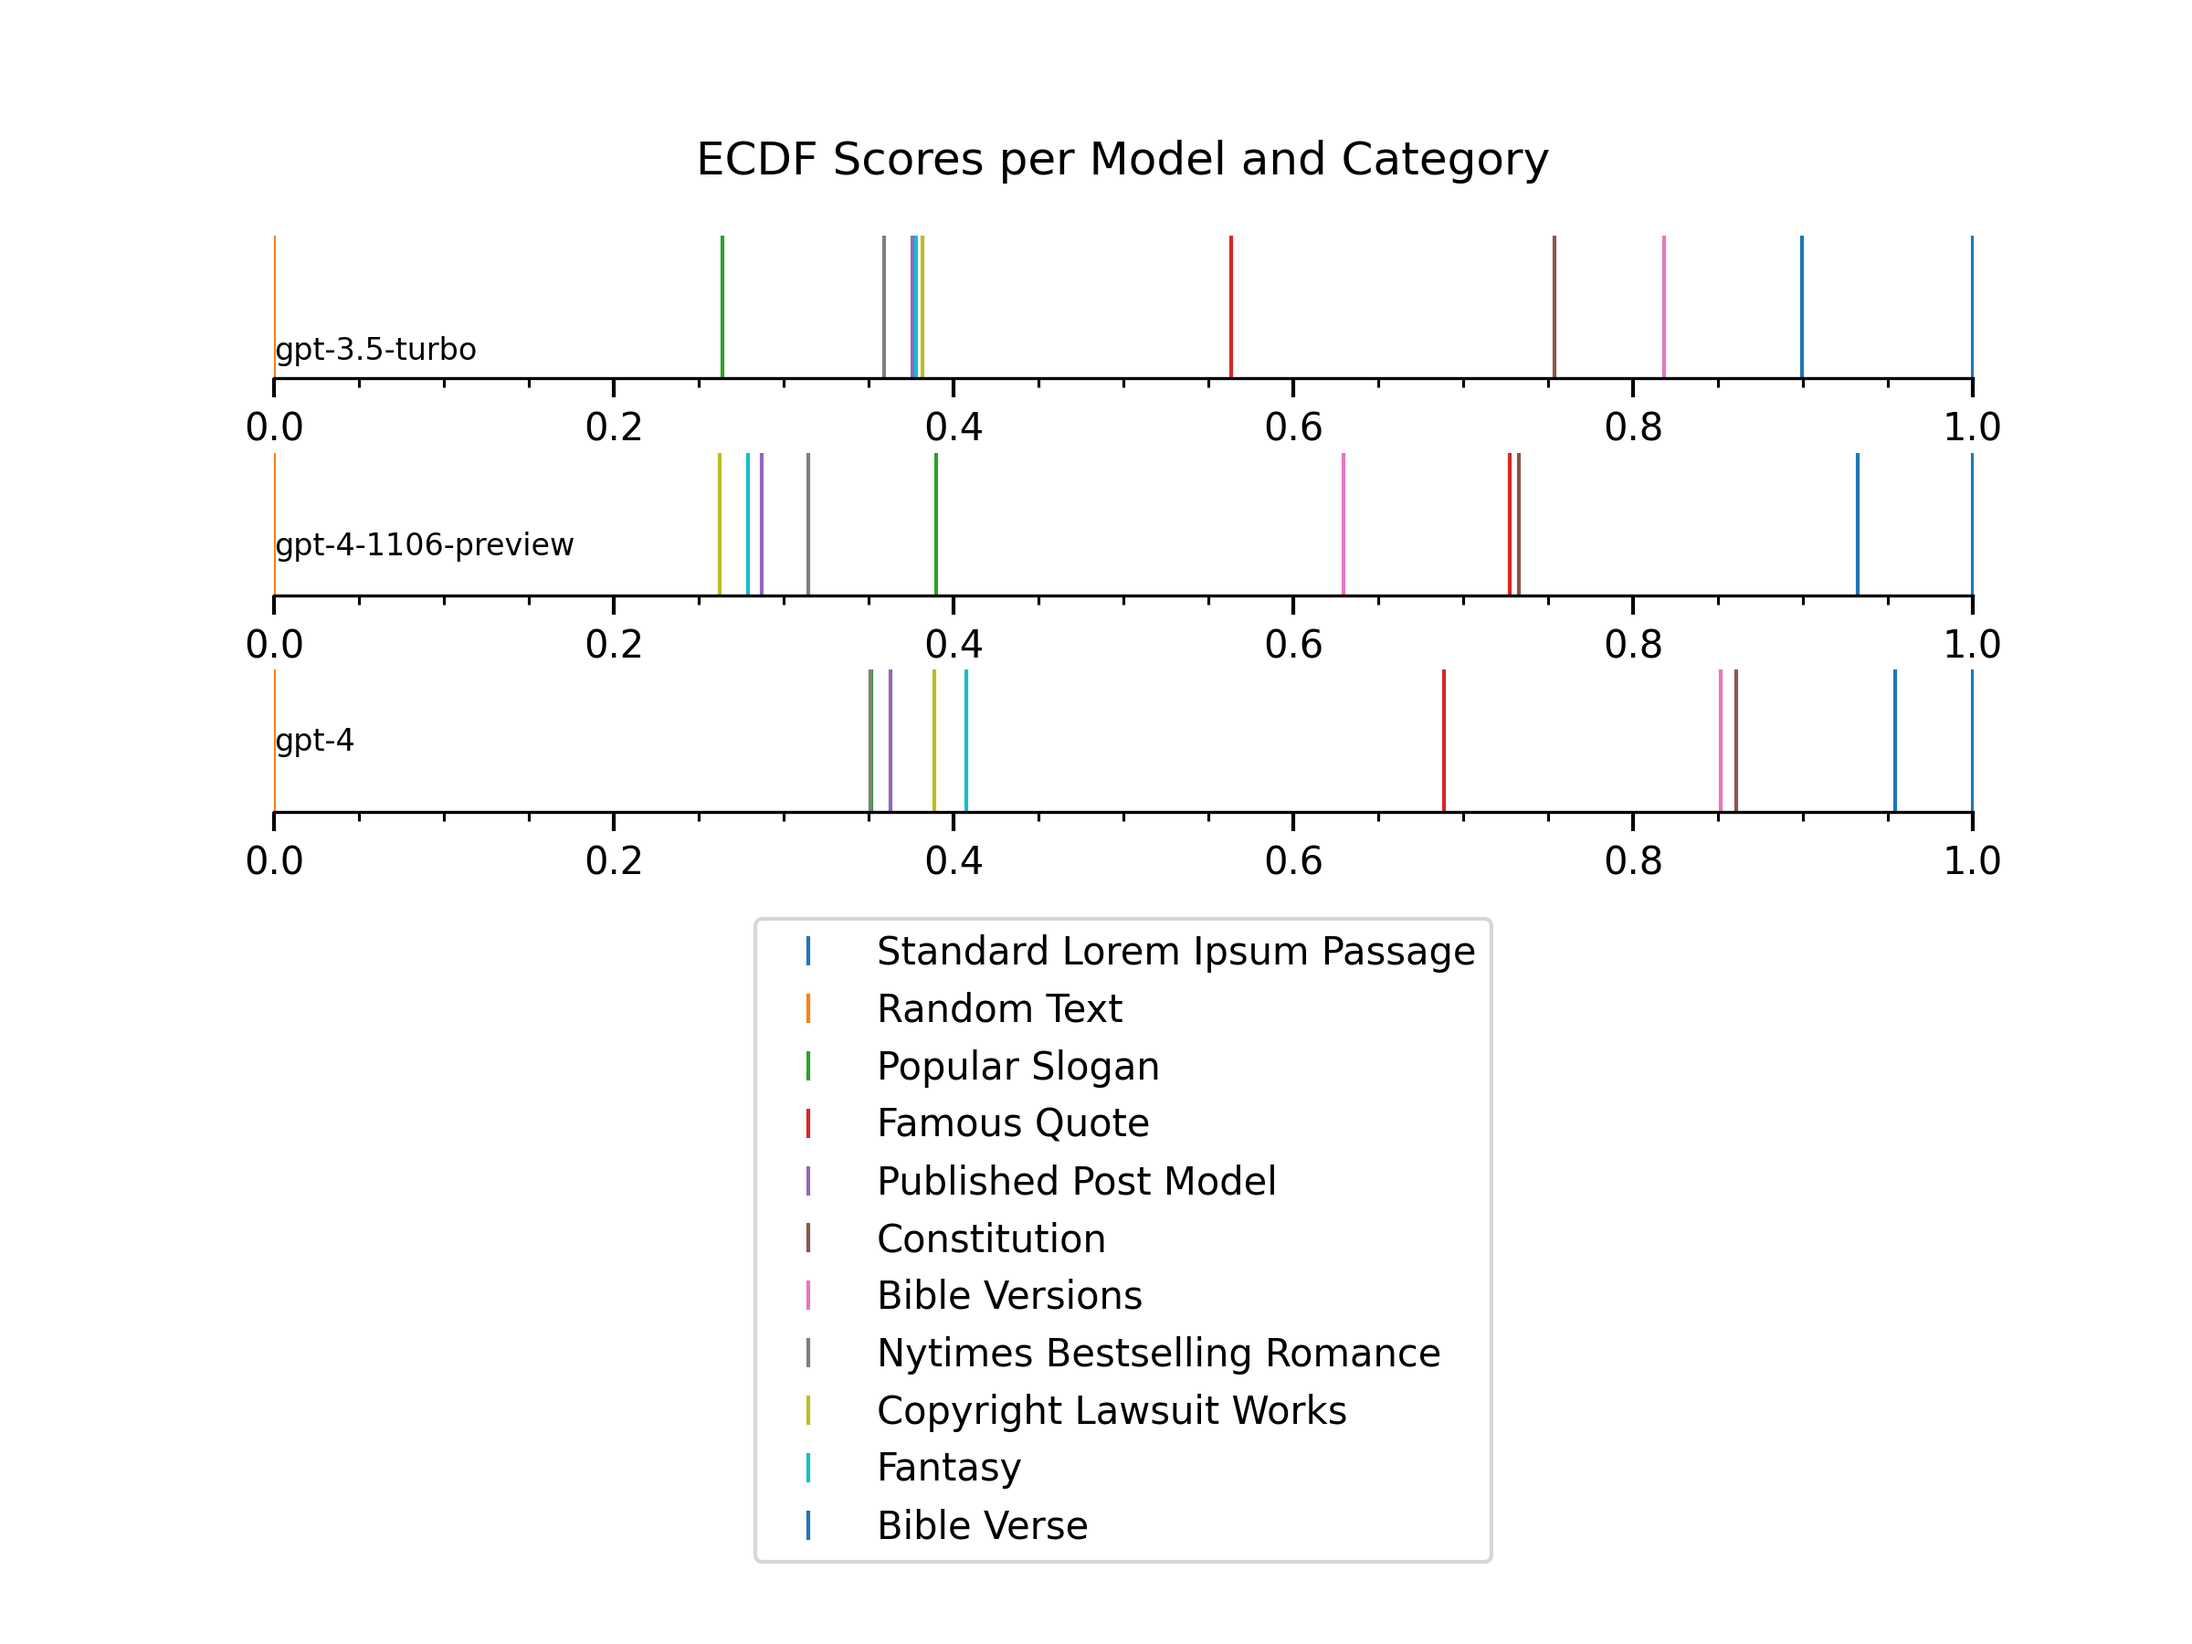
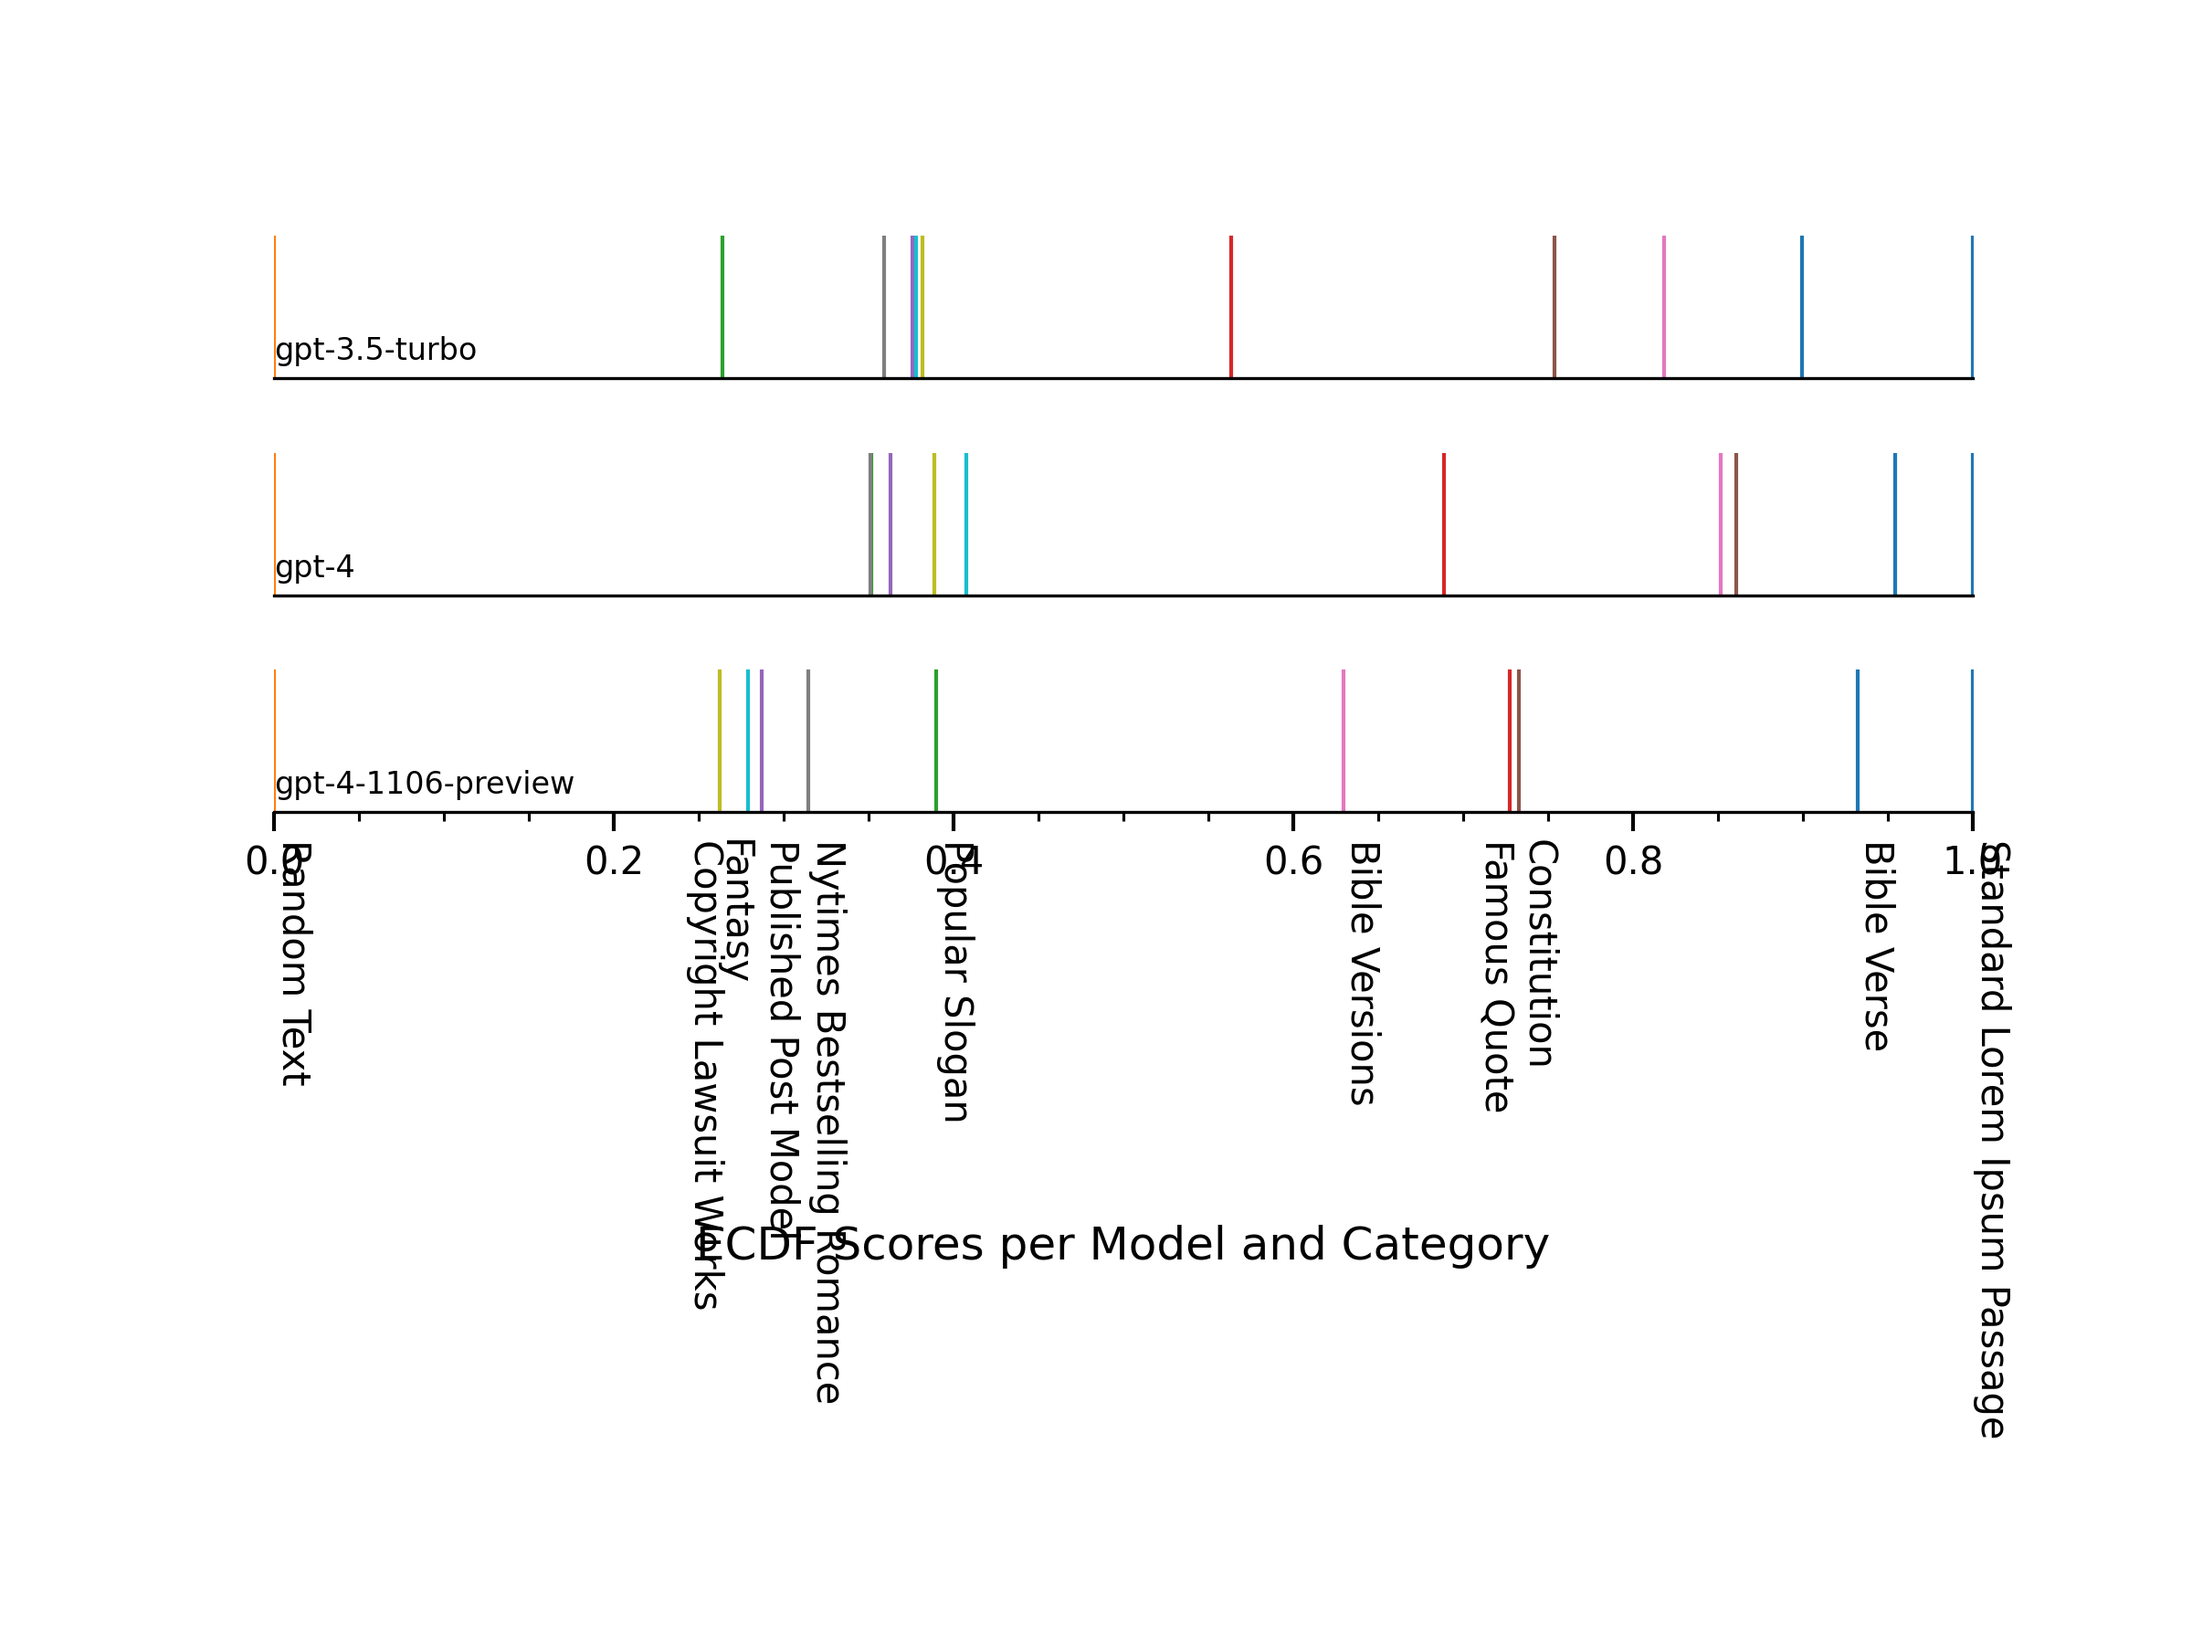
Plot labels on line distribution figure.

diff --git a/code2.0/line_dist_3ax.py b/code2.0/line_dist_3ax.py
@@ -1,6 +1,6 @@
 import pandas as pd
 import matplotlib.pyplot as plt
-from matplotlib import ticker
+from matplotlib import ticker, gridspec
 from astropy.table import Table
 
 def setup_line_distribution(ax):
@@ -23,62 +23,59 @@ def setup_line_distribution(ax):
 def line_distribution(file, metric, filepath):
     # df = pd.read_csv(file)
     plt.figure(figsize=(8, 6))
+    fig, axs = plt.subplots(6, 1, figsize=(8, 6))
     df = Table.read('../all-models-results/visualization/ecdfs/bleu-ecdf-table.tex').to_pandas()
     print(df)
     print(df.columns)
-    models = ['gpt-3.5-turbo', 'gpt-4', 'gpt-4-1106-preview'] # TODO: make a tuple?
-    sub_location = [1, 2, 3]
+    models = ['gpt-3.5-turbo', 'gpt-4', 'gpt-4-1106-preview']
     pos = 0
     shift_left = ['Copyright Lawsuit Works', 'Fantasy', 'Famous Quote']
 
     for model in models:
-        # ax = plt.subplot(sub_location[pos], 1, 4)
-        ax = plt.subplot(6, 1, (1, sub_location[pos]))
-        # axs[0].scatter(categories, subplot1_points, color='blue')
-        pos += 1
-        setup_line_distribution(ax)
-        if pos == 3:
-            ax.xaxis.set_major_locator(ticker.AutoLocator())
-            ax.xaxis.set_minor_locator(ticker.AutoMinorLocator())
-            ax.text(0.0, 0.1, model, fontsize=8, transform=ax.transAxes)
+        # Plot points on each subplot
+        setup_line_distribution(axs[pos])
+        if pos == 2:
+            axs[pos].xaxis.set_major_locator(ticker.AutoLocator())
+            axs[pos].xaxis.set_minor_locator(ticker.AutoMinorLocator())
+            axs[pos].text(0.0, 0.1, model, fontsize=8, transform=axs[pos].transAxes)
         else :
-            ax.xaxis.set_major_locator(ticker.NullLocator())
-            ax.text(0.0, 0.1, model, fontsize=8, transform=ax.transAxes)
+            axs[pos].xaxis.set_major_locator(ticker.NullLocator())
+            axs[pos].text(0.0, 0.1, model, fontsize=8, transform=axs[pos].transAxes)
 
         model_vals = df[f'{model}'].tolist()
 
         index = 0
         for val in model_vals:
             # plt.plot(val, 0, '|' , ms = 75, label= df.loc[index, 'Category'])
-            plt.plot(val, 0, '|', ms=75, label=df.loc[index, 'Category'])
+            axs[pos].plot(val, 0, '|', ms=75, label=df.loc[index, 'Category'])
             print(df.loc[index, 'Category'])
-            if pos == 3:
+            if pos == 2:
                 if df.loc[index, 'Category'] in (shift_left):
-                    plt.text(val-0.02, -0.15, df.loc[index, 'Category'], fontsize=10, verticalalignment='top', rotation=270)
+                    axs[pos].text(val-0.02, -0.15, df.loc[index, 'Category'], fontsize=10, verticalalignment='top', rotation=270)
                 else:
-                    plt.text(val, -0.15, df.loc[index, 'Category'], fontsize=10, verticalalignment='top', rotation=270)
+                    axs[pos].text(val, -0.15, df.loc[index, 'Category'], fontsize=10, verticalalignment='top', rotation=270)
             index+=1
+        pos += 1
 
-    plt.title('ECDF Scores per Model and Category')
-    # plt.legend(bbox_to_anchor=(0.5, -1.25), loc='lower center', markerscale=0.1)
-    plt.savefig('../line_distribution.png', dpi = 300)
-    plt.show()
-"""
-    # model[0] y =1
-    # model[0] x-list
     # Create value and category lists
     categories = df.Category.unique()
     gpt_1 = df['gpt-3.5-turbo'].tolist()
     gpt_2 = df['gpt-4'].tolist()
     gpt_3 = df['gpt-4-1106-preview'].tolist()
 
-
     # Connect categories across subplots with lines
     for i, cat in enumerate(categories):
-        plt[1].plot([i, i], [gpt_1[i], gpt_2[i]], color='black')
-        plt[2].plot([i, i], [gpt_2[i], gpt_3[i]], color='black')
-"""
+        axs[0].plot([gpt_1[i], gpt_2[i]], [i, i], color='black')
+        axs[0].plot([gpt_2[i], gpt_3[i]], [i, i], color='black')
 
+    # Hide extra rows
+    for i in range(3, 6):
+        axs[i].axis('off')
+
+    plt.title('ECDF Scores per Model and Category')
+    # plt.legend(bbox_to_anchor=(0.5, -1.25), loc='lower center', markerscale=0.1)
+    plt.savefig('../line_distribution.png', dpi = 300)
+    plt.show()
 
 if __name__ == '__main__':
 
